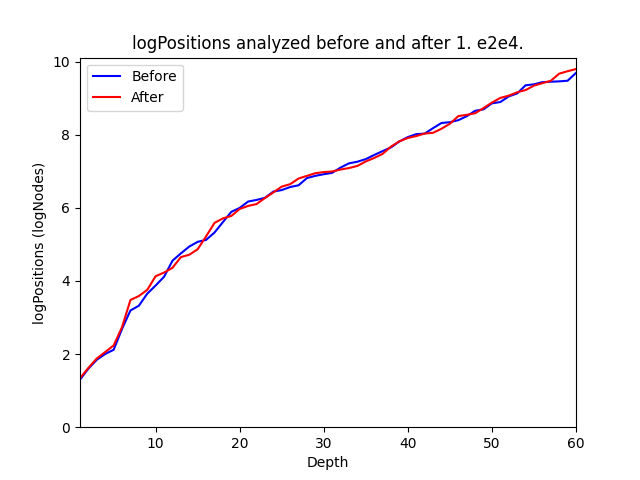
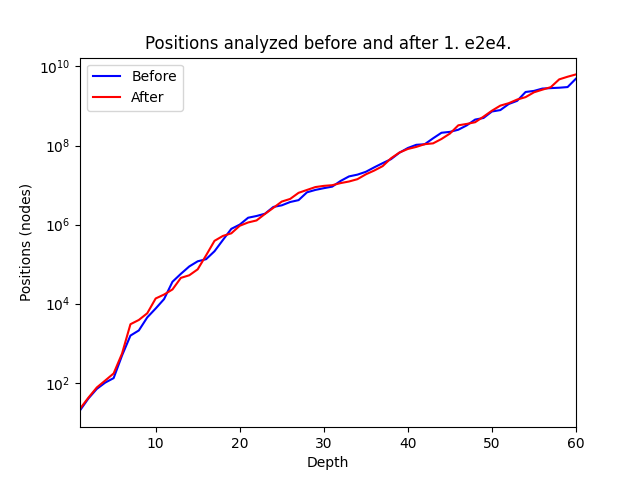
logP/N improvement

diff --git a/main.py b/main.py
@@ -1,14 +1,12 @@
 import chess.engine
 import numpy as np
 import matplotlib.pyplot as plt
-import math
 
 
 def analysis(board, color, label, move):
     depth_list = []
     eval_list = []
     node_list = []
-    lognode_list = []
 
     engine = chess.engine.SimpleEngine.popen_uci("stockfish-windows-x86-64-avx2.exe")
 
@@ -31,10 +29,8 @@ def analysis(board, color, label, move):
 
                 nodes = int(i["nodes"])
                 node_list.append(nodes)
-                lognodes = math.log10(nodes)
-                lognode_list.append(lognodes)
 
-                print(f"Depth: {depth} Eval: {eval_reduced} Nodes: {nodes} logNodes: {lognodes}")
+                print(f"Depth: {depth} Eval: {eval_reduced} Nodes: {nodes}")
 
                 if depth == 60:
                     break
@@ -42,11 +38,10 @@ def analysis(board, color, label, move):
     weighted_avg = np.average(eval_list,
                               weights=depth_list)
 
-    print(f"Depths: {depth_list}")
-    print(f"Evals: {eval_list}")
-    print(f"Nodes: {node_list}")
-    print(f"logNodes: {lognode_list}")
-    print(f"Weighted avg: {weighted_avg}")
+    print(f"Depths: {depth_list}\n"
+          f"Evals: {eval_list}\n"
+          f"Nodes: {node_list}\n"
+          f"Weighted avg: {weighted_avg}")
 
     plt.figure(0)
     plt.plot(depth_list,
@@ -67,17 +62,17 @@ def analysis(board, color, label, move):
 
     plt.figure(1)
     plt.plot(depth_list,
-             lognode_list,
+             node_list,
              color=color,
              label=label,
              linestyle="-")
 
     plt.xlabel("Depth")
-    plt.ylabel("logPositions (logNodes)")
-    plt.title(f"logPositions analyzed before and after {move}.")
+    plt.ylabel("Positions (nodes)")
+    plt.title(f"Positions analyzed before and after {move}.")
     plt.legend()
     plt.xlim(1, 60)
-    plt.ylim(0)
+    plt.yscale("log")
 
 
 before_pos = input("Before position: ")

diff --git a/README.md b/README.md
@@ -1,5 +1,5 @@
 # Chess Analysis Graphing Tool
-This tool plots chess evaluation (centipawns) and logPositions analyzed (logNodes) per unit depth using the chess engine Stockfish.
+This tool plots chess evaluation (centipawns) and positions analyzed (nodes) per unit depth using the chess engine Stockfish.
 
 # Setup
 1. Install Python at https://www.python.org/downloads/.
@@ -20,13 +20,13 @@ After, ```Move:``` will print.
 Enter the move played.
 
 After all information is entered, the code will open Stockfish and analyze the first position entered.
-While analyzing, the code will record and print the evaluation, nodes, and logNodes for each depth reached.
-After reaching a depth of 60, the code will close Stockfish; print lists of all important information; and plot evaluation, a weighted average of evaluation, and logNodes against depth.
+While analyzing, the code will record and print the evaluation, and nodes for each depth reached.
+After reaching a depth of 60, the code will close Stockfish; print lists of all important information; and plot evaluation, a weighted average of evaluation, and positions analyzed against depth.
 The code will then repeat this process for the second position entered.
 After, two graphs will appear, indicating that the code has finished running.
 The user can save these graphs by clicking the "save the figure" icon, the rightmost option located at the bottom left of the figure.
 
-In lines 15 and 16 of the code, ```Threads``` and ```Hash``` are both set to ```1```.
+In lines 13 and 14 of the code, ```Threads``` and ```Hash``` are both set to ```1```.
 Threads are the number of CPU cores Stockfish uses to analyze.
 Increasing threads increases the speed with which Stockfish analyzes.
 However, to generate deterministic results, threads must be set to 1.
@@ -49,7 +49,7 @@ When ```Before position:``` prints, enter the first position recorded, **rnbqkbn
 After, when ```After position:``` prints, enter the second position recorded, **rnbqkbnr/pppppppp/8/8/4P3/8/PPPP1PPP/RNBQKBNR b KQkq - 0 1**.
 Finally, when ```Move:``` prints, enter the move played, **1. e2e4**.
 
-Stockfish will analyze the two positions, printing depth, evaluation, nodes, and logNodes information.
+Stockfish will analyze the two positions, printing depth, evaluation, and node information.
 When Stockfish finishes, two graphs will appear.
 These graphs are the results of the analysis, and are titled *Figure_0.png* and *Figure_1.png* in this repository.
 
